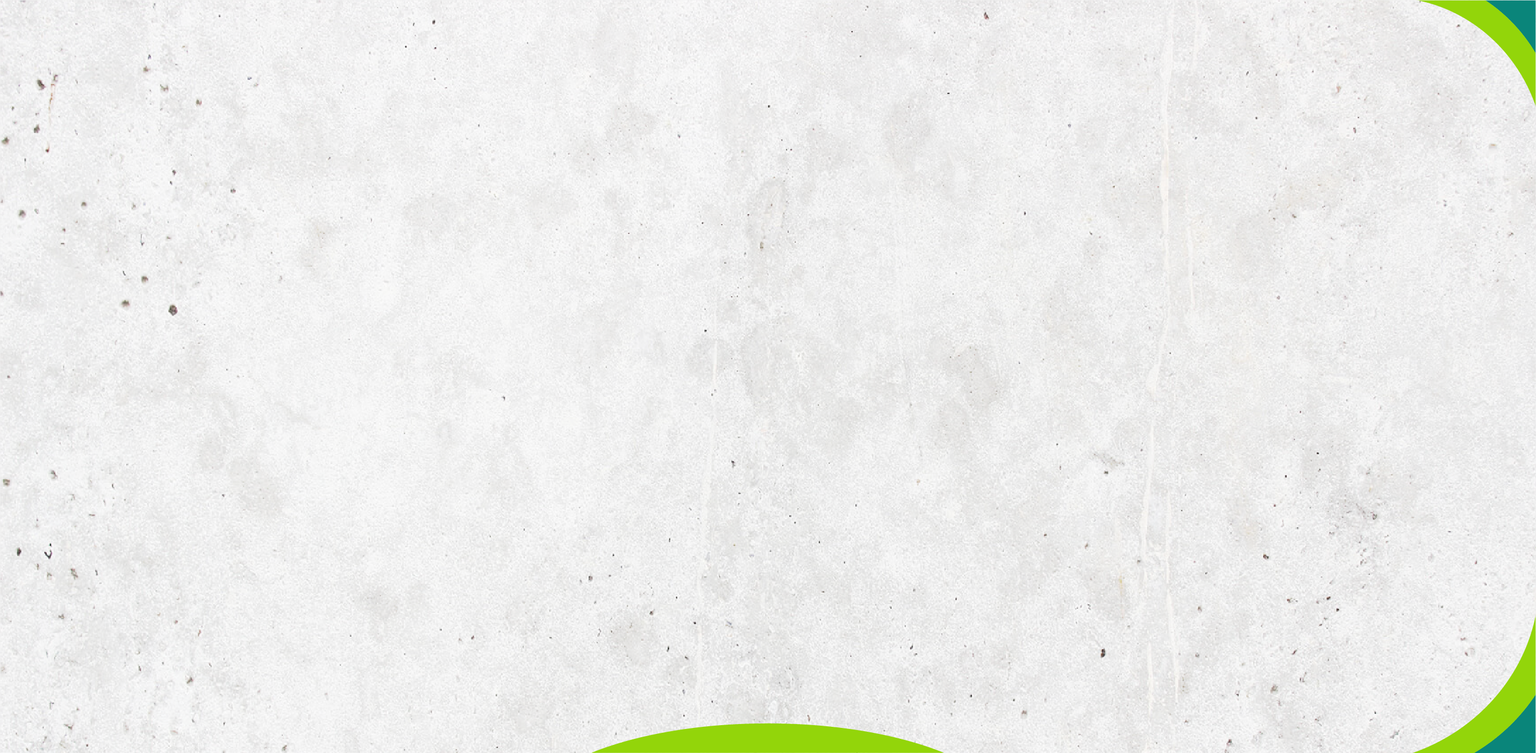
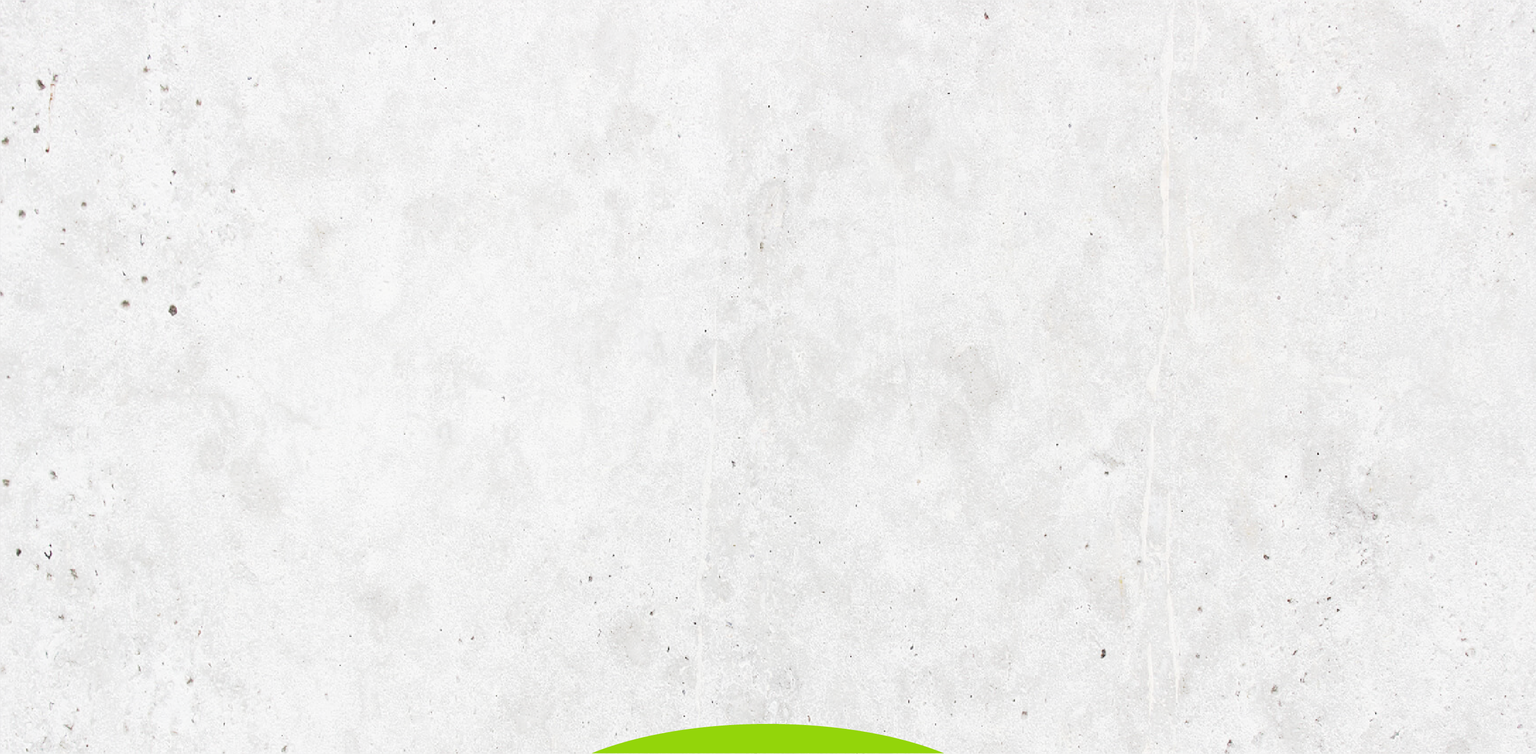
Adding conrer assets

Changed region(s): [[0.8982, 0.8113, 1.0, 1.0], [0.9292, 0.0, 1.0, 0.156], [0.3717, 0.9985, 0.6194, 1.0]]

diff --git a/css/styles.css b/css/styles.css
@@ -63,6 +63,38 @@ html {
     font-size: 16px;
 }
 
+html::before {
+    content: "";
+    display: block;
+    position: absolute;
+    top: 0%;
+    right: 0%;
+    background: url(../img/top-right.svg) no-repeat;
+    -webkit-background-size: cover;
+    -moz-background-size: cover;
+    -o-background-size: cover;
+    background-size: cover;
+    width: 130px;
+    height: 120px;
+    z-index: -1;
+}
+
+html::after {
+    content: "";
+    display: block;
+    position: absolute;
+    bottom: 0%;
+    right: 0%;
+    background: url(../img/bottom-right.svg) no-repeat;
+    -webkit-background-size: cover;
+    -moz-background-size: cover;
+    -o-background-size: cover;
+    background-size: cover;
+    width: 130px;
+    height: 120px;
+    z-index: -1;
+}
+
 body {
     font-family: 'Calibri', sans-serif;
     font-size: 1rem;

diff --git a/css/scormplayer.css b/css/scormplayer.css
@@ -80,6 +80,38 @@ body:after {
     z-index: -1;
 }
 
+html::before {
+    content: "";
+    display: block;
+    position: absolute;
+    top: 0%;
+    right: 0%;
+    background: url(../img/top-right.svg) no-repeat;
+    -webkit-background-size: cover;
+    -moz-background-size: cover;
+    -o-background-size: cover;
+    background-size: cover;
+    width: 130px;
+    height: 120px;
+    z-index: -1;
+}
+
+html::after {
+    content: "";
+    display: block;
+    position: absolute;
+    bottom: 0%;
+    right: 0%;
+    background: url(../img/bottom-right.svg) no-repeat;
+    -webkit-background-size: cover;
+    -moz-background-size: cover;
+    -o-background-size: cover;
+    background-size: cover;
+    width: 130px;
+    height: 120px;
+    z-index: -1;
+}
+
 #body {
     max-width: 968px;
     margin: 130px auto;
